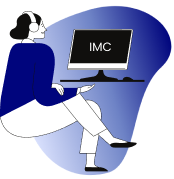
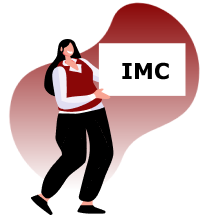
:rocket: finishing the app

diff --git a/src/components/Button/styles.ts b/src/components/Button/styles.ts
@@ -4,20 +4,23 @@ import { theme } from "../../styles/theme";
 
 export const styles = StyleSheet.create({
   primary: {
+    marginTop: 20,
     width: 200,
-    backgroundColor: theme.colors.blue,
+    backgroundColor: theme.colors.white,
     paddingTop: 10,
+    borderWidth: 1,
     paddingBottom: 10,
     paddingLeft: 20,
     paddingRight: 20,
     borderRadius: 25,
     justifyContent: "center",
     alignItems: "center",
-    flexDirection: "row",
   },
   secondary: {
+    marginTop: 20,
     width: 225,
     backgroundColor: theme.colors.white,
+    borderWidth: 1,
     paddingTop: 15,
     paddingBottom: 10,
     paddingLeft: 20,
@@ -25,9 +28,9 @@ export const styles = StyleSheet.create({
     borderRadius: 25,
     justifyContent: "center",
     alignItems: "center",
-    flexDirection: "row",
   },
   tertiary: {
+    marginTop: 20,
     width: 225,
     backgroundColor: "transparent",
     paddingTop: 15,
@@ -41,7 +44,7 @@ export const styles = StyleSheet.create({
   },
   primaryText: {
     fontFamily: theme.fonts.semibold,
-    color: theme.colors.white,
+    color: theme.colors.red,
     display: "flex",
     justifyContent: "center",
     alignItems: "center",
@@ -57,7 +60,7 @@ export const styles = StyleSheet.create({
   },
   tertiaryText: {
     fontFamily: theme.fonts.semibold,
-    color: theme.colors.white,
+    color: theme.colors.black,
     display: "flex",
     justifyContent: "center",
     alignItems: "center",
@@ -65,9 +68,5 @@ export const styles = StyleSheet.create({
   },
   nextIcon: {
     marginLeft: 50,
-  },
-  backIcon: {
-    marginLeft: -200,
-    marginRight: 10,
   },
 });

diff --git a/src/screens/Home/index.tsx b/src/screens/Home/index.tsx
@@ -15,30 +15,27 @@ export default function Home() {
   return (
     <View style={styles.container}>
       <View style={styles.top}>
-        <View style={styles.header}>
-          <Text style={styles.line01}>Calcule o seu</Text>
-          <Text style={styles.line02}>IMC</Text>
-        </View>
-        <Image
-          style={styles.image}
-          source={homeIllustration}
-          resizeMode="contain"
-        />
         <Text style={styles.content}>
           Estar dentro do peso certo é importante porque estar acima ou abaixo
           desse peso pode influenciar bastante a saúde, aumentando o risco de
           doenças como desnutrição quando se está abaixo do peso, e AVC ou
           infarto, quando se está acima do peso.
         </Text>
-      </View>
-      <View style={styles.bottom}>
+        <Image
+          style={styles.image}
+          source={homeIllustration}
+          resizeMode="contain"
+        />
+        <View style={styles.header}>
+          <Text style={styles.line01}>Calcule o seu</Text>
+          <Text style={styles.line02}>IMC</Text>
+        </View>
+
         <Button
           type="secondary"
           title="Começar"
           onPress={() => handleSetCurrentPage("Data")}
-        >
-          <Image source={arrowIllustrationHome} resizeMode="contain" />
-        </Button>
+        />
       </View>
     </View>
   );

diff --git a/src/screens/Data/index.tsx b/src/screens/Data/index.tsx
@@ -1,6 +1,6 @@
 import React, { useContext } from "react";
 
-import { View, Text, Image, TextInput } from "react-native";
+import { View, Text, Image } from "react-native";
 import { styles } from "./styles";
 
 import { useForm, Controller } from "react-hook-form";
@@ -137,11 +137,8 @@ export default function Home() {
           type="primary"
           title="Calcular"
           onPress={handleSubmit(onSubmit)}
-        >
-          <Image source={dataIllustration} resizeMode="contain" />
-        </Button>
-      </View>
-      <View style={styles.bottom}>
+        />
+
         <Button
           type="tertiary"
           title="Voltar"

diff --git a/src/screens/Result/index.tsx b/src/screens/Result/index.tsx
@@ -44,15 +44,11 @@ export default function Result() {
           <Text style={styles.line01}>Este valor é considerado como</Text>
           <Text style={styles.line02}>{resultLabel}</Text>
         </View>
-      </View>
-      <View style={styles.bottom}>
         <Button
           type="tertiary"
           title="Voltar"
           onPress={() => handleSetCurrentPage("Home")}
-        >
-          <Image source={arrowIllustrationHome} resizeMode="contain" />
-        </Button>
+        />
       </View>
     </View>
   );

diff --git a/src/screens/Home/styles.ts b/src/screens/Home/styles.ts
@@ -12,6 +12,7 @@ export const styles = StyleSheet.create({
     paddingLeft: 60,
     paddingRight: 60,
     flex: 1,
+    height: "100%",
     justifyContent: "center",
     alignItems: "center",
     backgroundColor: theme.colors.white,
@@ -43,10 +44,5 @@ export const styles = StyleSheet.create({
     alignItems: "center",
     justifyContent: "center",
     fontFamily: theme.fonts.light,
-  },
-  bottom: {
-    flex: 0.175,
-    justifyContent: "center",
-    alignItems: "center",
   },
 });

diff --git a/src/components/Button/index.tsx b/src/components/Button/index.tsx
@@ -27,7 +27,6 @@ export default function Button({
     <Pressable style={buttonType[type]} onPress={onPress}>
       {type === "tertiary" ? (
         <>
-          <View style={styles.backIcon}>{children}</View>
           <Text style={textType[type]}>{title}</Text>
         </>
       ) : (

diff --git a/src/@types/context.ts b/src/@types/context.ts
@@ -4,7 +4,7 @@ export interface ButtonInterface {
   type: "primary" | "secondary" | "tertiary";
   onPress: () => void;
   title: string;
-  children: React.ReactNode;
+  children?: React.ReactNode;
 }
 
 export interface GenderInterface {

diff --git a/src/screens/Data/styles.ts b/src/screens/Data/styles.ts
@@ -73,9 +73,4 @@ export const styles = StyleSheet.create({
     paddingEnd: 30,
     borderBottomColor: theme.colors.black,
   },
-  bottom: {
-    flex: 0.175,
-    justifyContent: "center",
-    alignItems: "center",
-  },
 });

diff --git a/src/styles/theme.ts b/src/styles/theme.ts
@@ -2,7 +2,7 @@ export const theme = {
   colors: {
     black: "#000000",
     white: "#FFFFFF",
-    blue: "#00057D",
+    blue: "#8A0707",
     red: "#BF0436",
   },
 
